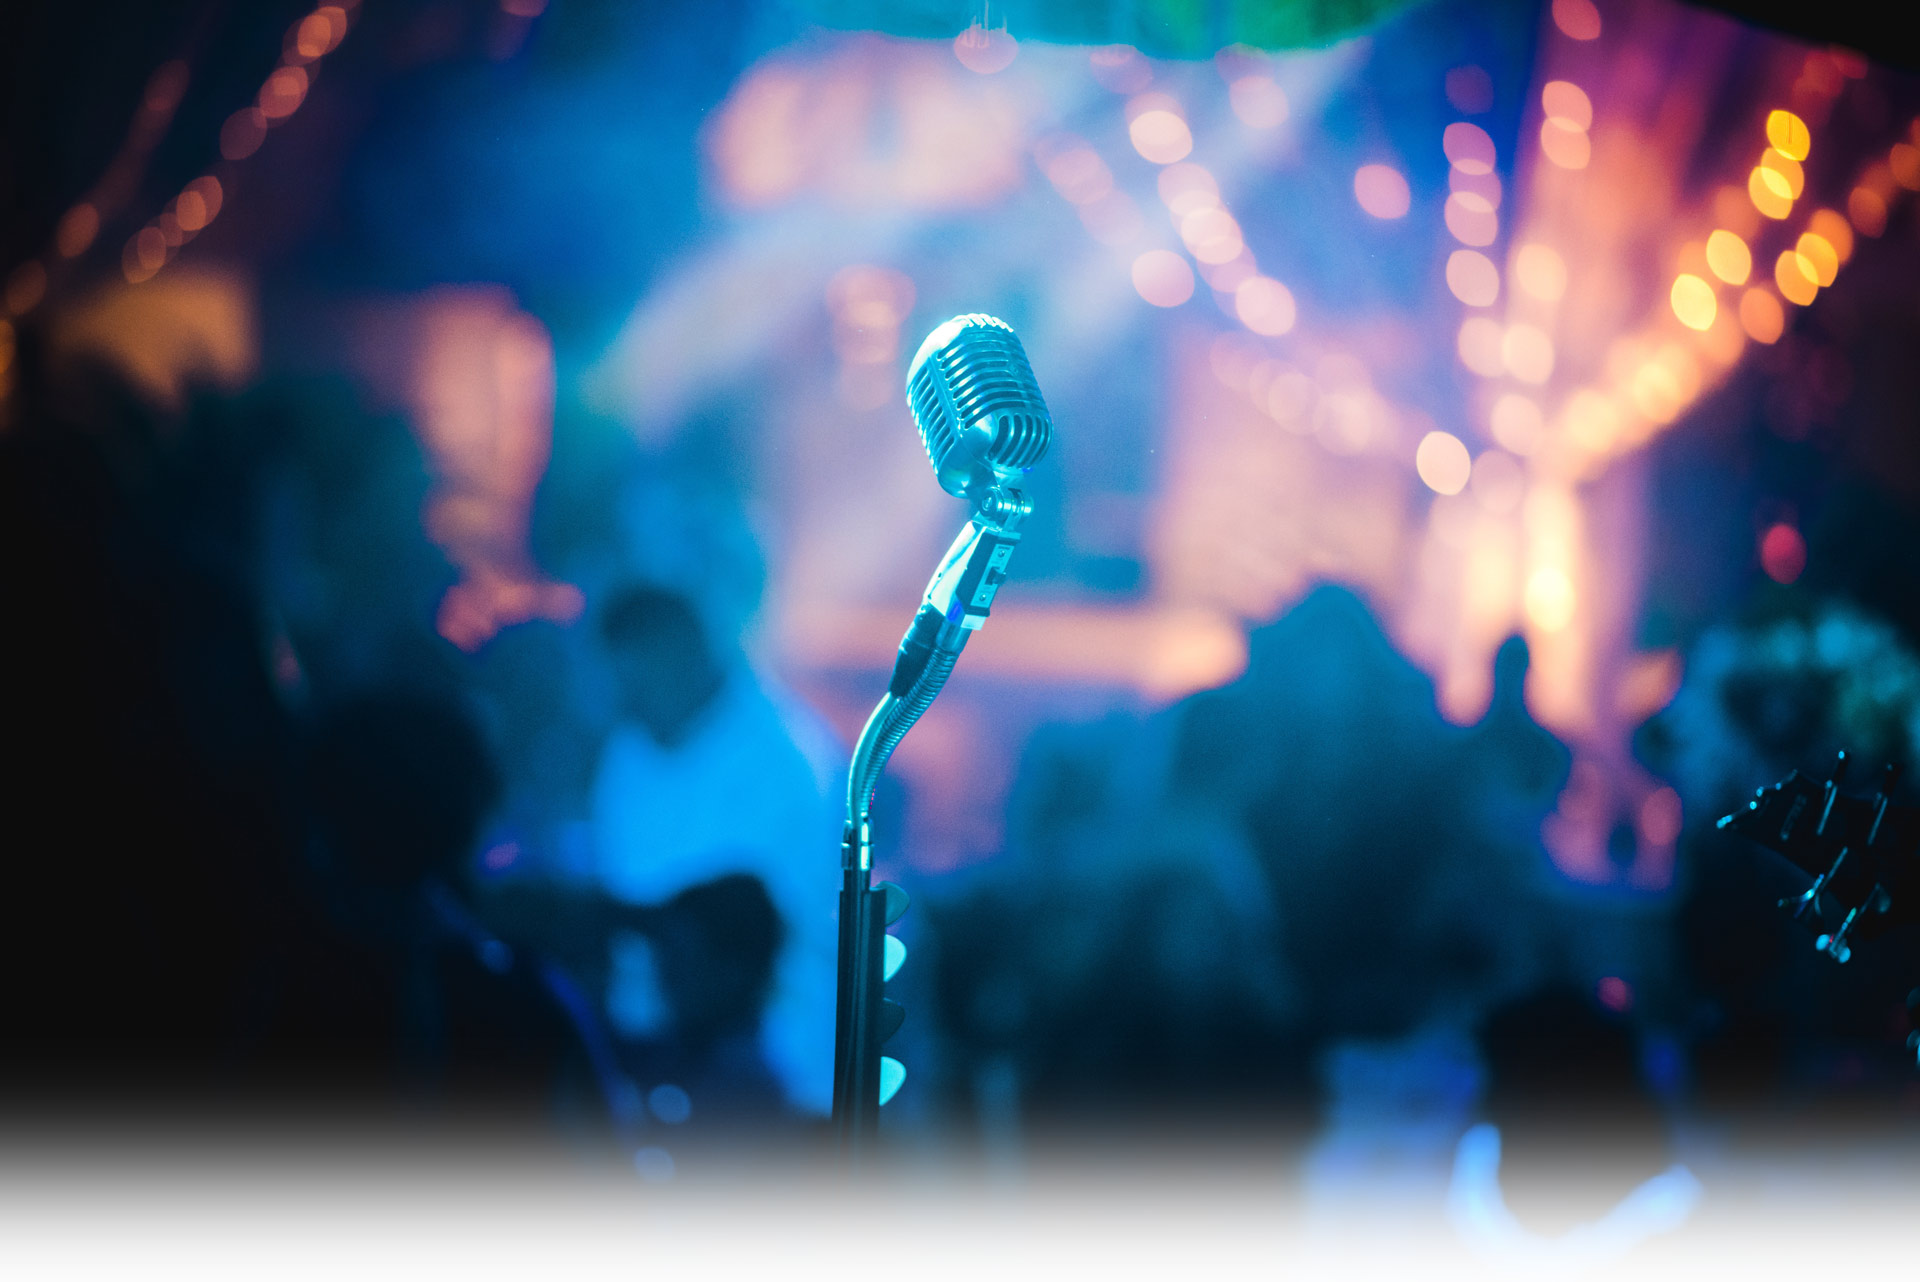
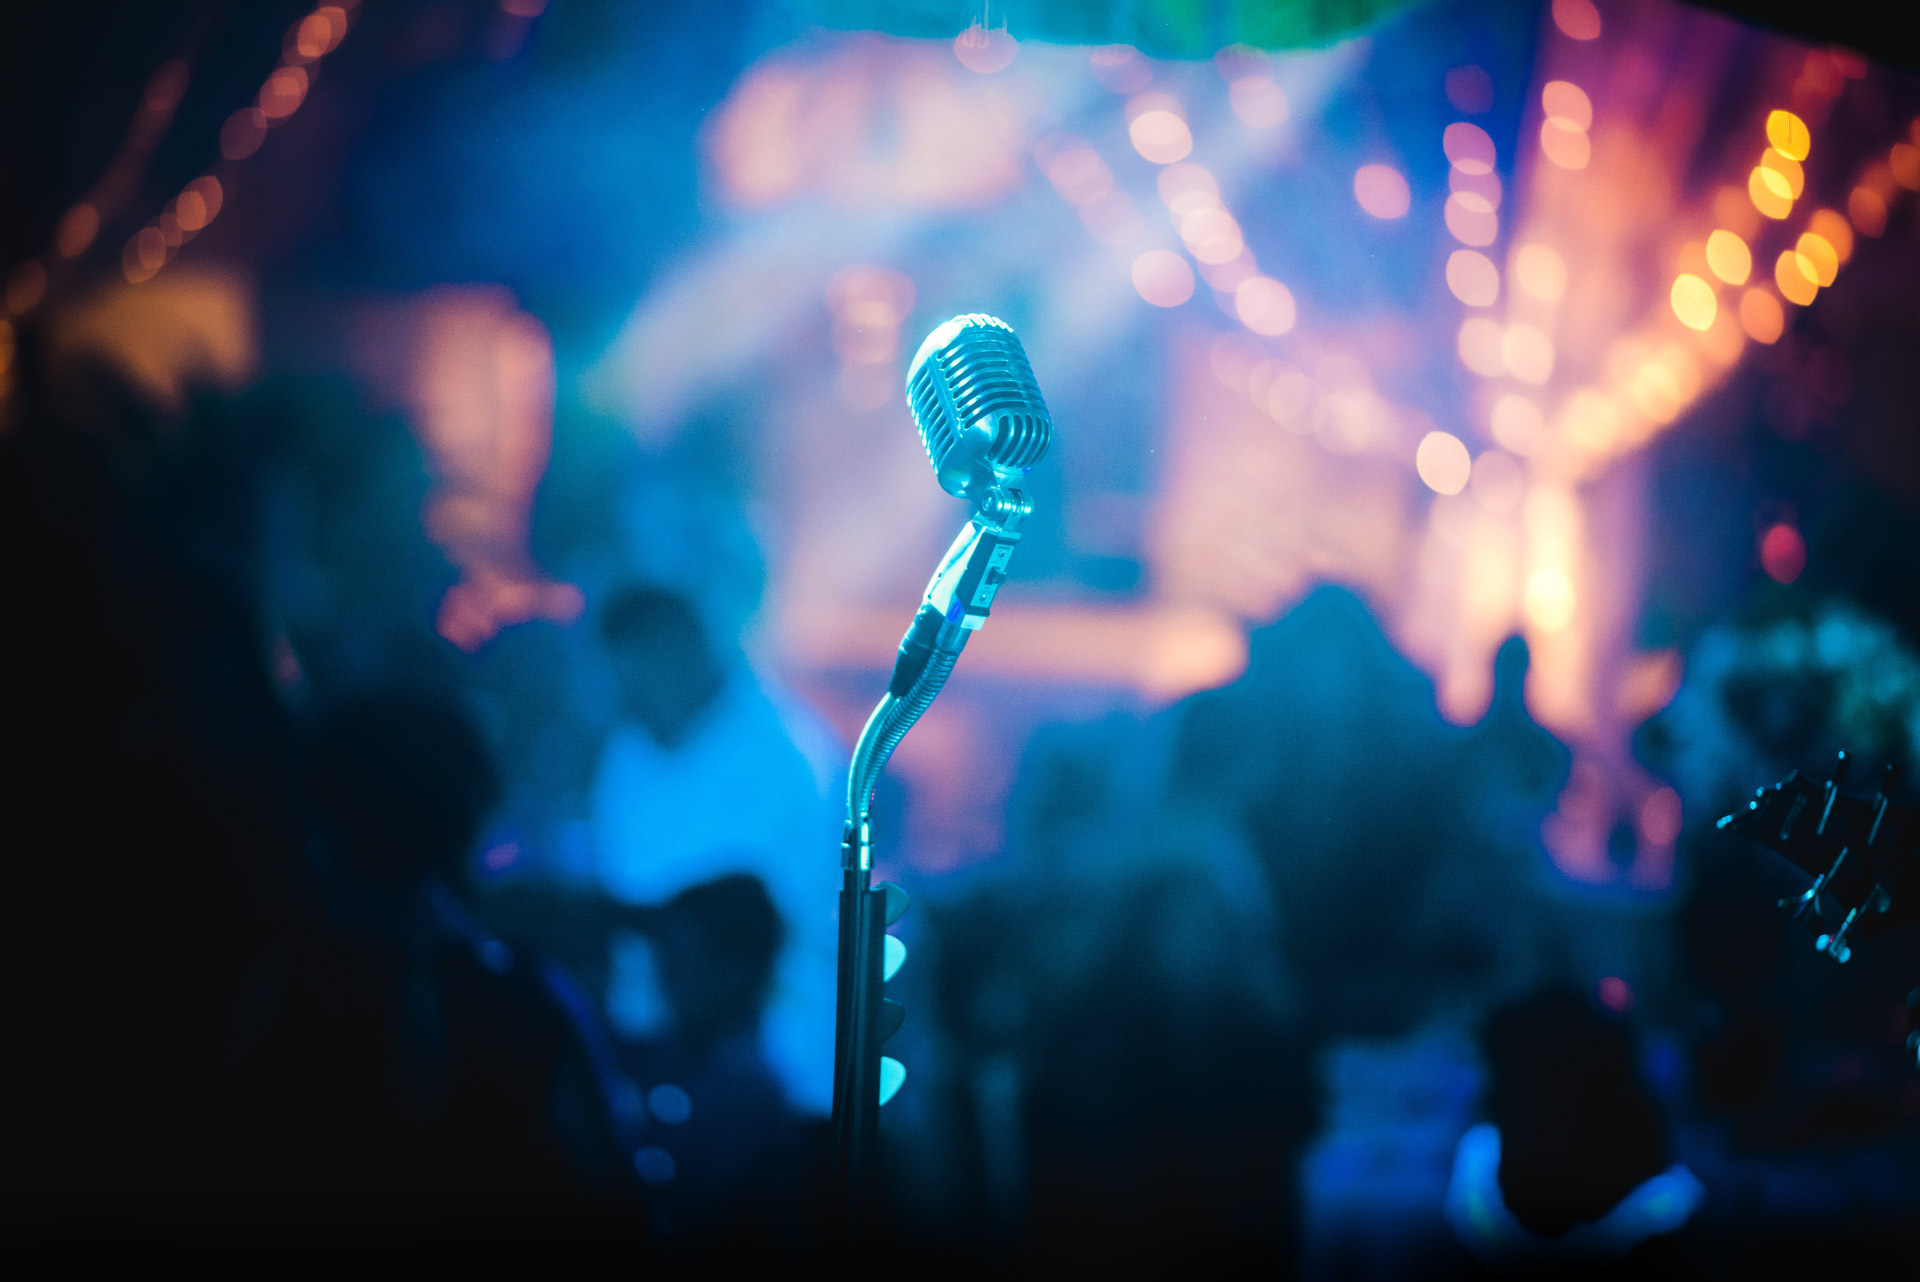
added youtube vid embed

Changed region(s): [[0.0, 0.8424, 1.0, 1.0]]

diff --git a/madeleine_milasas/week_04/day_05/bands/public/css/master.css b/madeleine_milasas/week_04/day_05/bands/public/css/master.css
@@ -13,8 +13,9 @@ html, body {
 body {
   font-family: 'Open Sans', sans-serif;
   letter-spacing: 0.8px;
-  background-color: #025075;
-  background-image: url('../../images/mic_full.jpg');
+  background-color: black;
+  /*background-color: #025075;*/
+  background-image: url('../../images/mic.jpg');
   background-repeat: no-repeat;
   background-size: cover;
 }
@@ -60,7 +61,7 @@ img.featured {
 }
 
 iframe {
-  padding: 2em 0;
+  /*padding: 2em 0;*/
 }
 
 .container a {

diff --git a/madeleine_milasas/week_04/day_05/bands/main.rb b/madeleine_milasas/week_04/day_05/bands/main.rb
@@ -163,3 +163,11 @@ end
 after do
   ActiveRecord::Base.connection.close
 end
+
+
+def youtube_embed url
+  # e.g. url https://www.youtube.com/watch?v=iZNwLsBUw08
+  youtube_id = url.partition('watch?v=').last
+  @youtube_str = "<iframe width=\"560\" height=\"315\" src=\"https://www.youtube.com/embed/#{ youtube_id }?rel=0&amp;showinfo=0\" frameborder=\"0\" allowfullscreen></iframe>"
+  # e.g. <iframe width="560" height="315" src="https://www.youtube.com/embed/iZNwLsBUw08" frameborder="0" allowfullscreen></iframe>
+end
